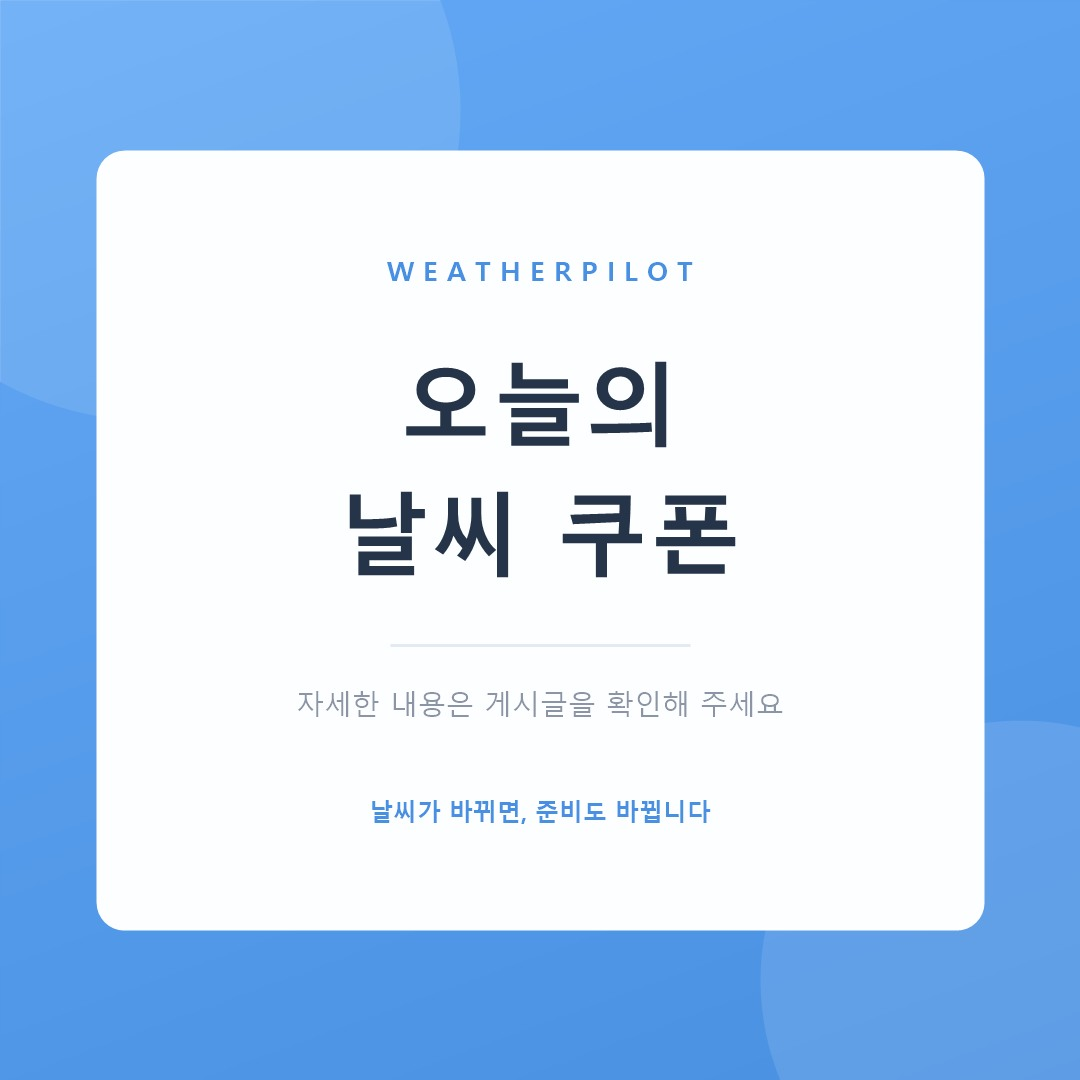
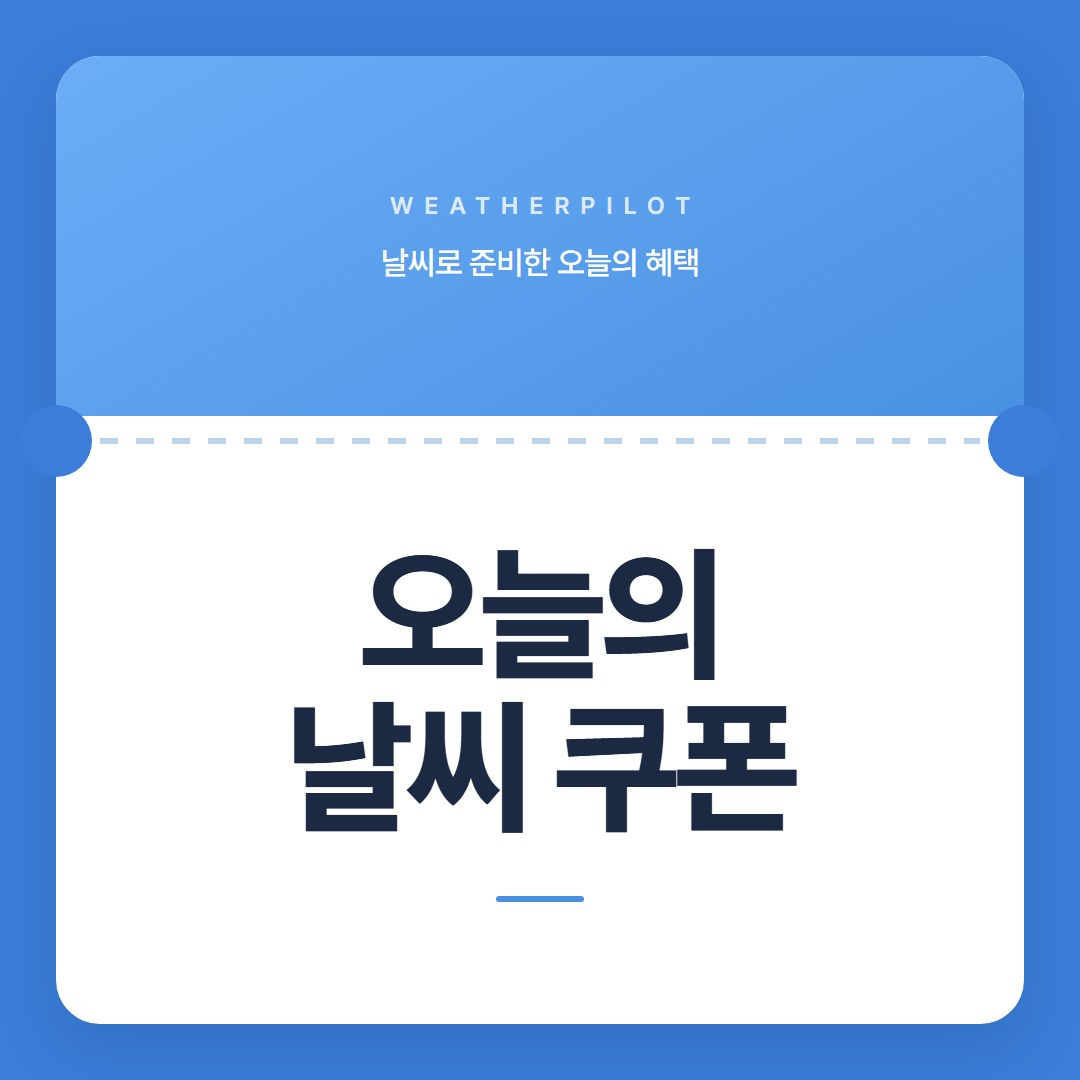
design: 프로모 카드를 쿠폰 티켓 시안으로 교체 — Pretendard 적용, GDI+ → HTML 렌더
기존 카드가 맑은 고딕이라 옛날 느낌이었고 슬로건 문구가 겉돌았다.

- 폰트: 맑은 고딕 → Pretendard ExtraBold(앱 tokens.ts와 동일 서체)
- 문구 정리: '날씨가 바뀌면, 준비도 바뀝니다'·'자세한 내용은 게시글을...' 삭제
  (캡션이 이미 그 역할을 한다)
- 디자인: 절취선·노치가 있는 쿠폰 티켓. 노치는 바깥 배경과 같은 단색이어야
  구멍으로 보여서 배경을 그라디언트 → 단색 #3B7DD8로 바꿨고,
  절취선은 색 경계에 걸치면 반쪽만 보여 흰 영역 안으로 내렸다
- 렌더 방식: PowerShell GDI+ → HTML/CSS + 헤드리스 크롬.
  GDI+는 자간·행간 제어가 없어 촌스러워질 수밖에 없었다
- tools/promo-card.html: 카드 원본 + 재생성 방법 주석 (바이너리만 두면 못 고침)

diff --git a/tools/promo-card.html b/tools/promo-card.html
@@ -1,0 +1,78 @@
+<!doctype html>
+<!--
+  Instagram 기본 프로모 카드 원본 (→ apps/web/public/promo-card.jpg).
+
+  IG_DEMO_IMAGE_URL이 가리키는 고정 이미지다. 사장님이 사진을 올리는 기능이 생기기 전까지
+  모든 인스타 게시가 이 카드를 쓴다.
+
+  왜 HTML인가 — 카드를 PowerShell System.Drawing(GDI+)으로 그렸더니 자간·행간 제어가 안 돼
+  촌스러웠다. HTML/CSS로 그리면 letter-spacing·line-height·그라디언트를 그대로 쓰고,
+  앱과 같은 Pretendard를 쓸 수 있다.
+
+  재생성 (Chrome 헤드리스 → PNG → JPEG):
+    chrome --headless --disable-gpu --hide-scrollbars --force-device-scale-factor=1 \
+      --window-size=1080,1080 --screenshot=card.png file:///.../tools/promo-card.html
+    그다음 PNG를 품질 92 JPEG로 변환해 apps/web/public/promo-card.jpg 로 덮는다.
+
+  Instagram 제약 — JPEG만(PNG·WEBP 거부) · 비율 4:5~1.91:1(1:1이 가장 안전) · 최대 8MB.
+-->
+<html lang="ko">
+<head><meta charset="utf-8"><title>WeatherPilot 프로모 카드</title>
+<style>
+  * { margin:0; padding:0; box-sizing:border-box; }
+  html,body { width:1080px; height:1080px; overflow:hidden; }
+  /* 바깥은 티켓 상단 그라디언트보다 한 톤 어둡게 — 같은 파랑이면 티켓 윤곽이 사라진다. */
+  body { font-family:'Pretendard',sans-serif; background:#3B7DD8; position:relative; }
+
+  /* 티켓 (1080 - 56*2 = 968) */
+  .ticket {
+    position:absolute; left:56px; top:56px; width:968px; height:968px;
+    border-radius:44px; overflow:hidden; background:#fff;
+    box-shadow:0 24px 60px rgba(20,60,110,.20);
+    display:flex; flex-direction:column;
+  }
+  .top {
+    flex:0 0 360px;
+    background:linear-gradient(150deg,#6BAEF7 0%,#4A90E2 100%);
+    display:flex; flex-direction:column; align-items:center; justify-content:center; color:#fff;
+  }
+  .mark {
+    font-family:'Pretendard SemiBold','Pretendard',sans-serif;
+    font-size:24px; letter-spacing:.46em; text-indent:.46em; color:rgba(255,255,255,.78);
+  }
+  .sub {
+    font-family:'Pretendard Medium','Pretendard',sans-serif;
+    font-size:32px; margin-top:24px; letter-spacing:-.02em;
+  }
+  .bottom { flex:1; display:flex; flex-direction:column; align-items:center; justify-content:center; }
+  h1 {
+    font-family:'Pretendard ExtraBold','Pretendard',sans-serif;
+    font-size:146px; line-height:1.05; letter-spacing:-.04em; color:#1B2942; text-align:center;
+  }
+  .dot { width:88px; height:6px; border-radius:99px; background:#4A90E2; margin-top:52px; }
+
+  /* 절취선 — 색 경계(y=416)에 걸치면 파랑 위에서 안 보여 반쪽만 남는다. 흰 영역 안으로 내린다. */
+  .dash {
+    position:absolute; left:100px; right:100px; top:438px; height:6px; z-index:2;
+    background:repeating-linear-gradient(90deg,#BDD3EC 0 18px,transparent 18px 36px);
+  }
+  /* 노치 — 티켓 좌우 모서리 위에 얹어 구멍처럼 보이게. 바깥 배경과 같은 단색이어야 구멍이 된다. */
+  .notch { position:absolute; width:72px; height:72px; border-radius:50%; background:#3B7DD8; z-index:3; top:405px; }
+  .nl { left:20px; }
+  .nr { left:988px; }
+</style></head>
+<body>
+  <div class="ticket">
+    <div class="top">
+      <div class="mark">WEATHERPILOT</div>
+      <div class="sub">날씨로 준비한 오늘의 혜택</div>
+    </div>
+    <div class="bottom">
+      <h1>오늘의<br>날씨 쿠폰</h1>
+      <div class="dot"></div>
+    </div>
+  </div>
+  <div class="dash"></div>
+  <div class="notch nl"></div>
+  <div class="notch nr"></div>
+</body></html>
